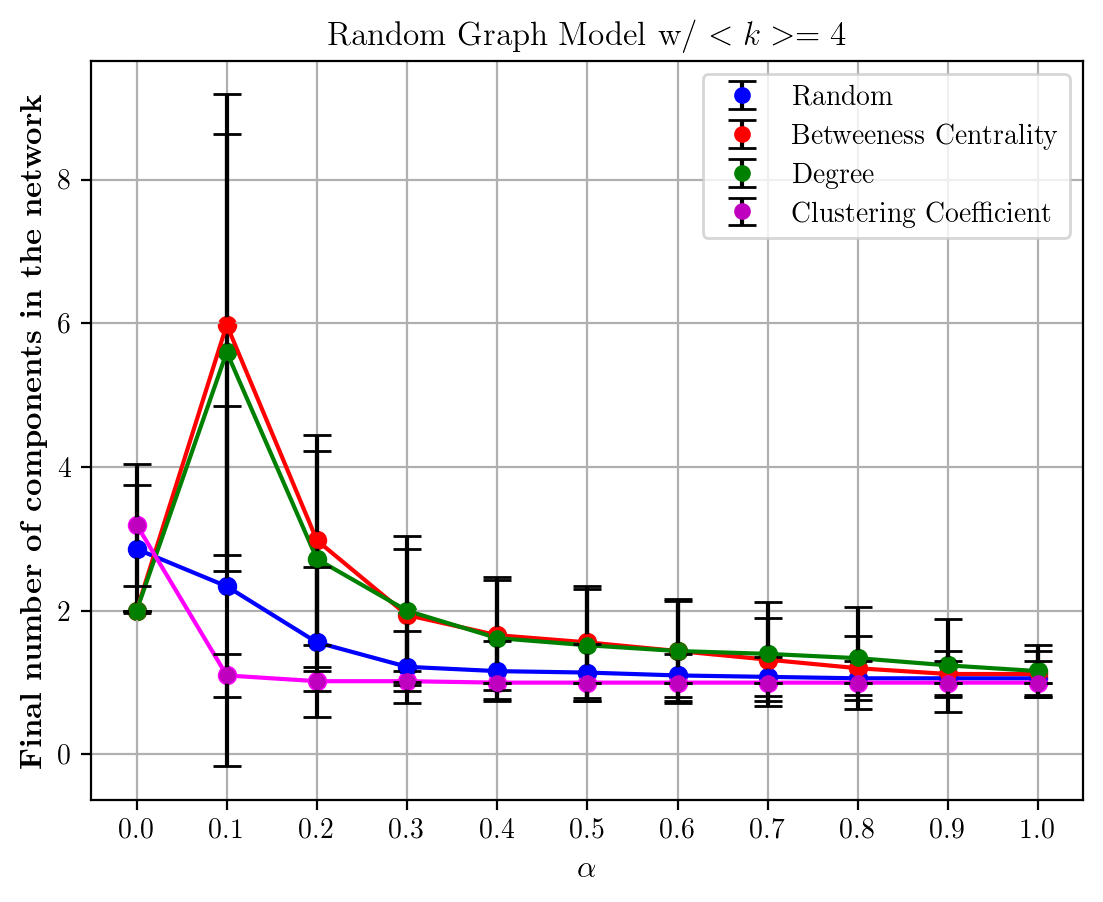
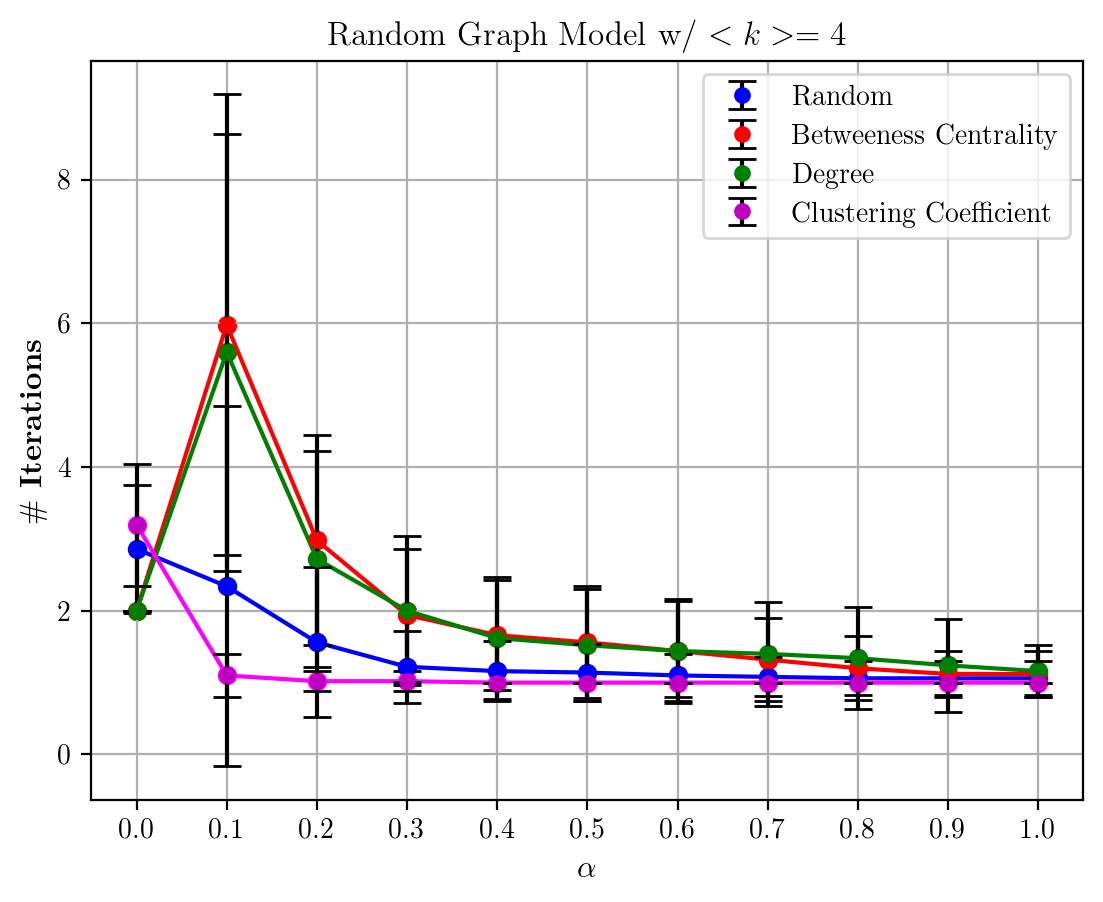
Correção nos plots das iterações

diff --git a/Plots/iterations.py b/Plots/iterations.py
@@ -211,7 +211,7 @@ else:
 plt.grid()
 plt.legend()
 plt.xlabel(r'\textbf{$\alpha$}', fontsize=11)
-plt.ylabel(r'\textbf{Final number of components in the network}', fontsize=11)
+plt.ylabel(r'\textbf{$\#$ Iterations}', fontsize=11)
 
 plt.show()
 
